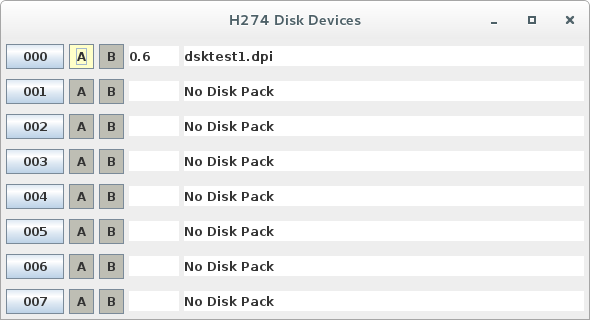
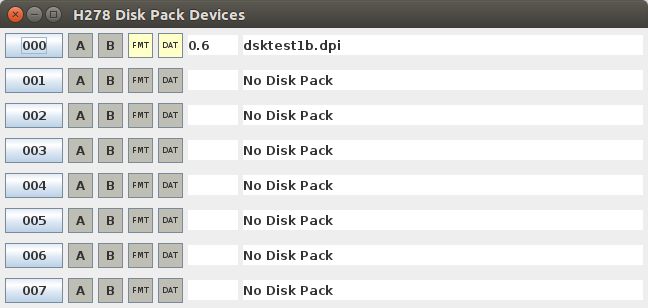
Update docs and fix some missed code updates.

Changed region(s): [[0.0, 0.0, 1.0, 1.0]]

diff --git a/hw2000/www/h274disks.html b/hw2000/www/h274disks.html
@@ -16,6 +16,13 @@ Some details are lacking regarding various command specifics.
 and raised to the top, using the Front Panel menu "I/O" and selecting Disks.
 Closing the window only hides it, having no effect on the operation of the drives.
 
+<P>A fill set of PERMIT buttons is provided for each drive: "A", "B",
+"FMT" (format), and "DAT" (data). The buttons toggle when clicked,
+illuminated means PERMIT writing. FMT allows formatting of tracks.
+DAT allows writing of existing records on tracks. A and B allow
+finer-grained control over writing of records that were formatted
+with A/B flags.
+
 <P>Due to lack of detailed information about these devices,
 the following has been assumed until more information is available:
 <UL>

diff --git a/hw2000/www/h204magtape.html b/hw2000/www/h204magtape.html
@@ -30,6 +30,11 @@ for selecting the tape image to be mounted (pressing Cancel will leave no
 image mounted).
 In addition, a rewind button exists. Active drives will show current 
 tape position in characters.
+Also, a PERMIT button/indicator allows control over writing to the tape.
+If the tape was mounted with a "Write Ring" (checkbox in the file selction dialog),
+then clicking PERMIT will toggle between write (illuminated) and protected (off).
+If the PERMIT indicator will not light when the button is clicked, the tape was
+mounted without "Write Ring".
 
 
 </BODY>

diff --git a/hw2000/P_MagneticTape.java b/hw2000/P_MagneticTape.java
@@ -44,7 +44,7 @@ public class P_MagneticTape extends JFrame
 	boolean isOn = false;
 
 	public P_MagneticTape() {
-		super("H204 Magnetic Tape");
+		super("H204B Magnetic Tape Unit");
 		_last = new File(System.getProperty("user.dir"));
 		sts = new MagTapeStatus[8];
 		setLayout(new BoxLayout(getContentPane(), BoxLayout.Y_AXIS));

diff --git a/hw2000/P_Disk.java b/hw2000/P_Disk.java
@@ -155,7 +155,7 @@ public class P_Disk extends JFrame
 	// 200 cyls (0000-0312 or 203?)
 	// 10400 char/trk
 	public P_Disk() {
-		super("H274 Disk Devices");
+		super("H278 Disk Pack Devices");
 		Font smallFont = new Font("Sans-Serif", Font.PLAIN, 8);
 		_last = new File(System.getProperty("user.dir"));
 		busy = false;

diff --git a/hw2000/DiskVolume.java b/hw2000/DiskVolume.java
@@ -36,7 +36,8 @@ public class DiskVolume {
 			dsk.end();
 			return;
 		}
-		byte[] r = dsk.readRecord();
+		byte[] r = new byte[250];
+		dsk.readRecord(r, 0, -1);
 		if (!compare(_1VOL, r, 0)) {
 			// Not previously initialized
 			dsk.end();
